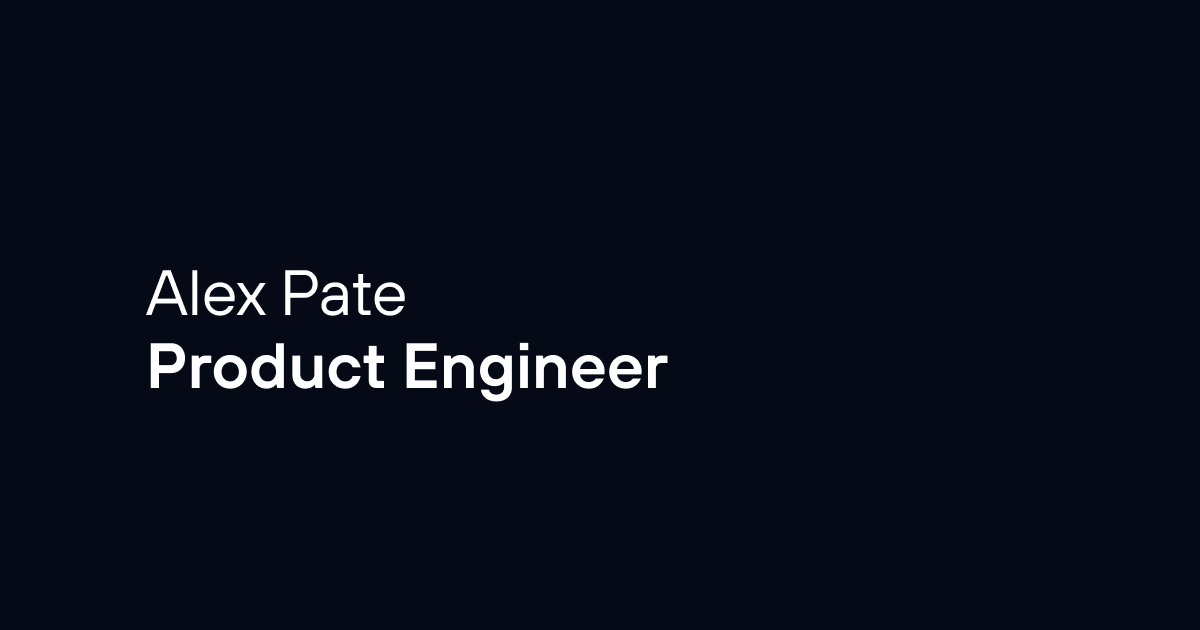
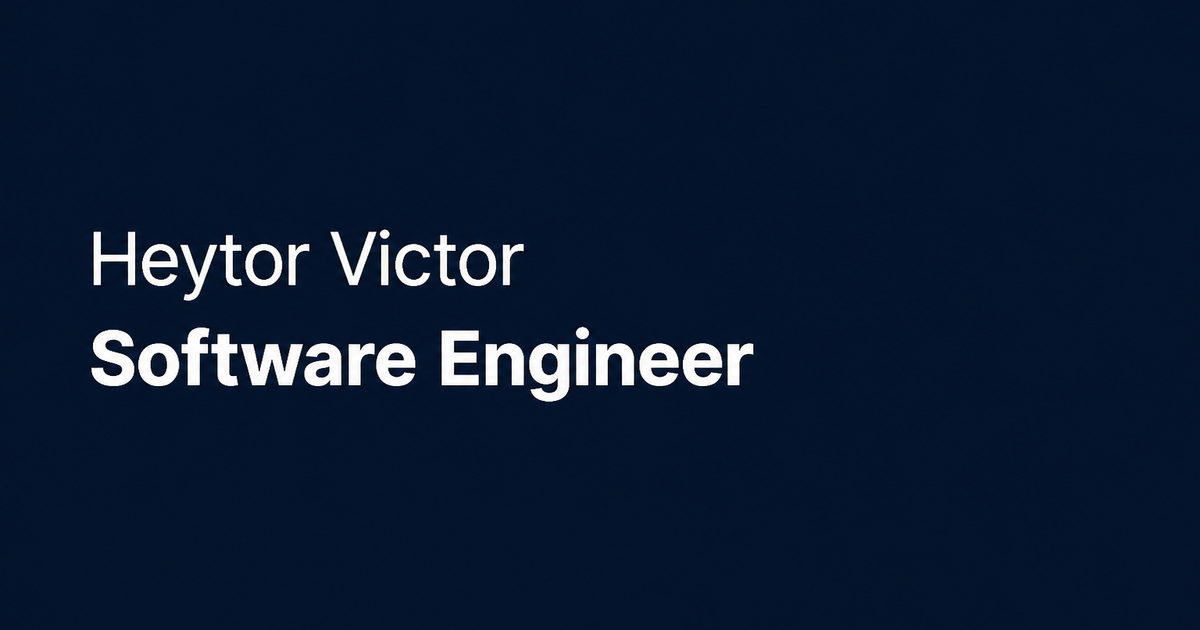
chore(branding): replace fork OG image and document scripts

Changed region(s): [[0.0617, 0.3619, 0.6475, 0.6635]]

diff --git a/tests/assets/og-meta.test.ts b/tests/assets/og-meta.test.ts
@@ -1,0 +1,20 @@
+import { existsSync, readFileSync } from "node:fs";
+import path from "node:path";
+import { describe, expect, it } from "vitest";
+
+describe("open graph asset", () => {
+	it("ships public/og.png", () => {
+		expect(existsSync(path.join(process.cwd(), "public/og.png"))).toBe(true);
+	});
+
+	it("layout metadata references the Heytor-branded OG image", () => {
+		const layout = readFileSync(
+			path.join(process.cwd(), "app/layout.tsx"),
+			"utf8",
+		);
+
+		expect(layout).toContain('url: "/og.png"');
+		expect(layout).toContain("Heytor Victor");
+		expect(layout).not.toContain("Alex Pate");
+	});
+});

diff --git a/README.md b/README.md
@@ -1,0 +1,15 @@
+# portfolio
+
+Personal portfolio for Heytor Victor ([heytor.dev](https://heytor.dev)).
+
+## Requirements
+
+- Node.js 20+
+
+## Scripts
+
+- `npm run dev` — local development
+- `npm run build` — production build
+- `npm run start` — serve production build
+- `npm run lint` — ESLint (next/core-web-vitals)
+- `npm test` — Vitest unit/component/architecture tests
